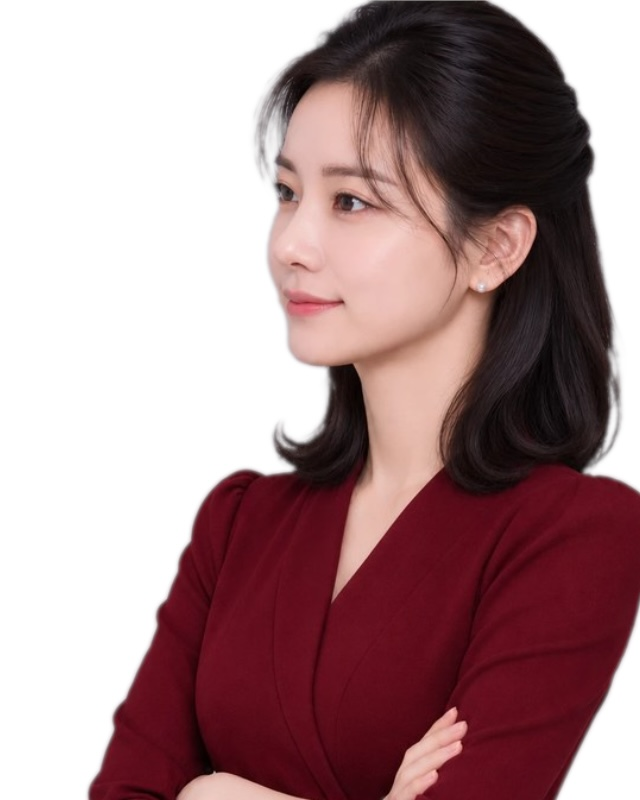
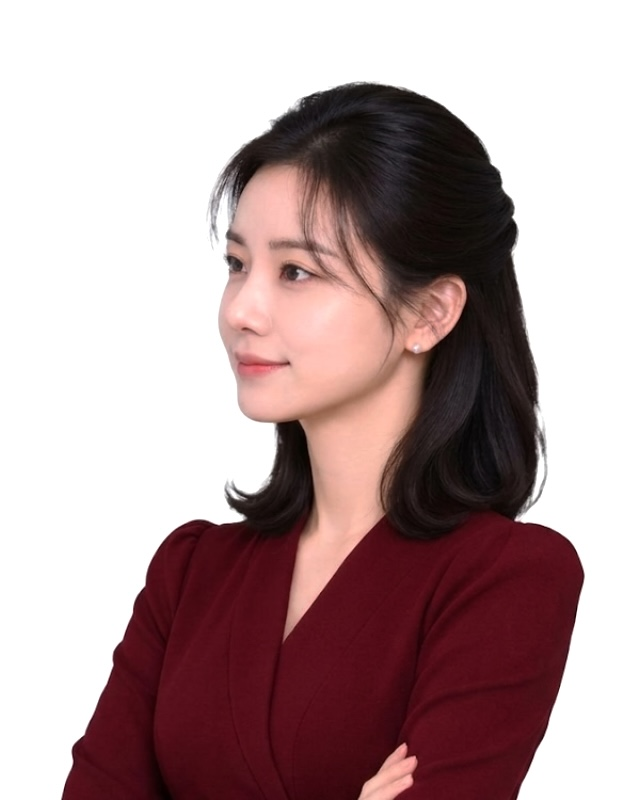
정민·문지현 사진: 머리 위 여백 추가 (테두리에 머리 안 닿게)

diff --git a/index.html b/index.html
@@ -610,7 +610,7 @@ const T=[
 ];
 const list=document.getElementById('tlist');
 /* 사진: img/teachers/이름.jpg 를 PHOTO 에 적으면 사진, 없으면 성 한 글자 */
-const PHOTO={};['류성훈','이태형','장의순','김호랑','고연승','권현석','정민','홍진수','최정윤','이예섭','정지만','김현중','이창환','최현재','김경한','문지현','박정은'].forEach(n=>PHOTO[n]='img/teachers/'+n+'.jpg?v=1123g');
+const PHOTO={};['류성훈','이태형','장의순','김호랑','고연승','권현석','정민','홍진수','최정윤','이예섭','정지만','김현중','이창환','최현재','김경한','문지현','박정은'].forEach(n=>PHOTO[n]='img/teachers/'+n+'.jpg?v=1123h');
 /* 줄 순서: 1줄 국어 · 2줄 수학 · 3줄 영어 · 4줄 탐구 · 논술 (11/19 사장님 요청)
    같은 과목 안에서는 (탐구는 통합과학·통합사회·사탐 순으로 묶고) 사진 있는 강사 먼저, 나머지는 배열 순서 그대로 */
 const SUBJ=['국어','수학','영어','탐구','논술'];
